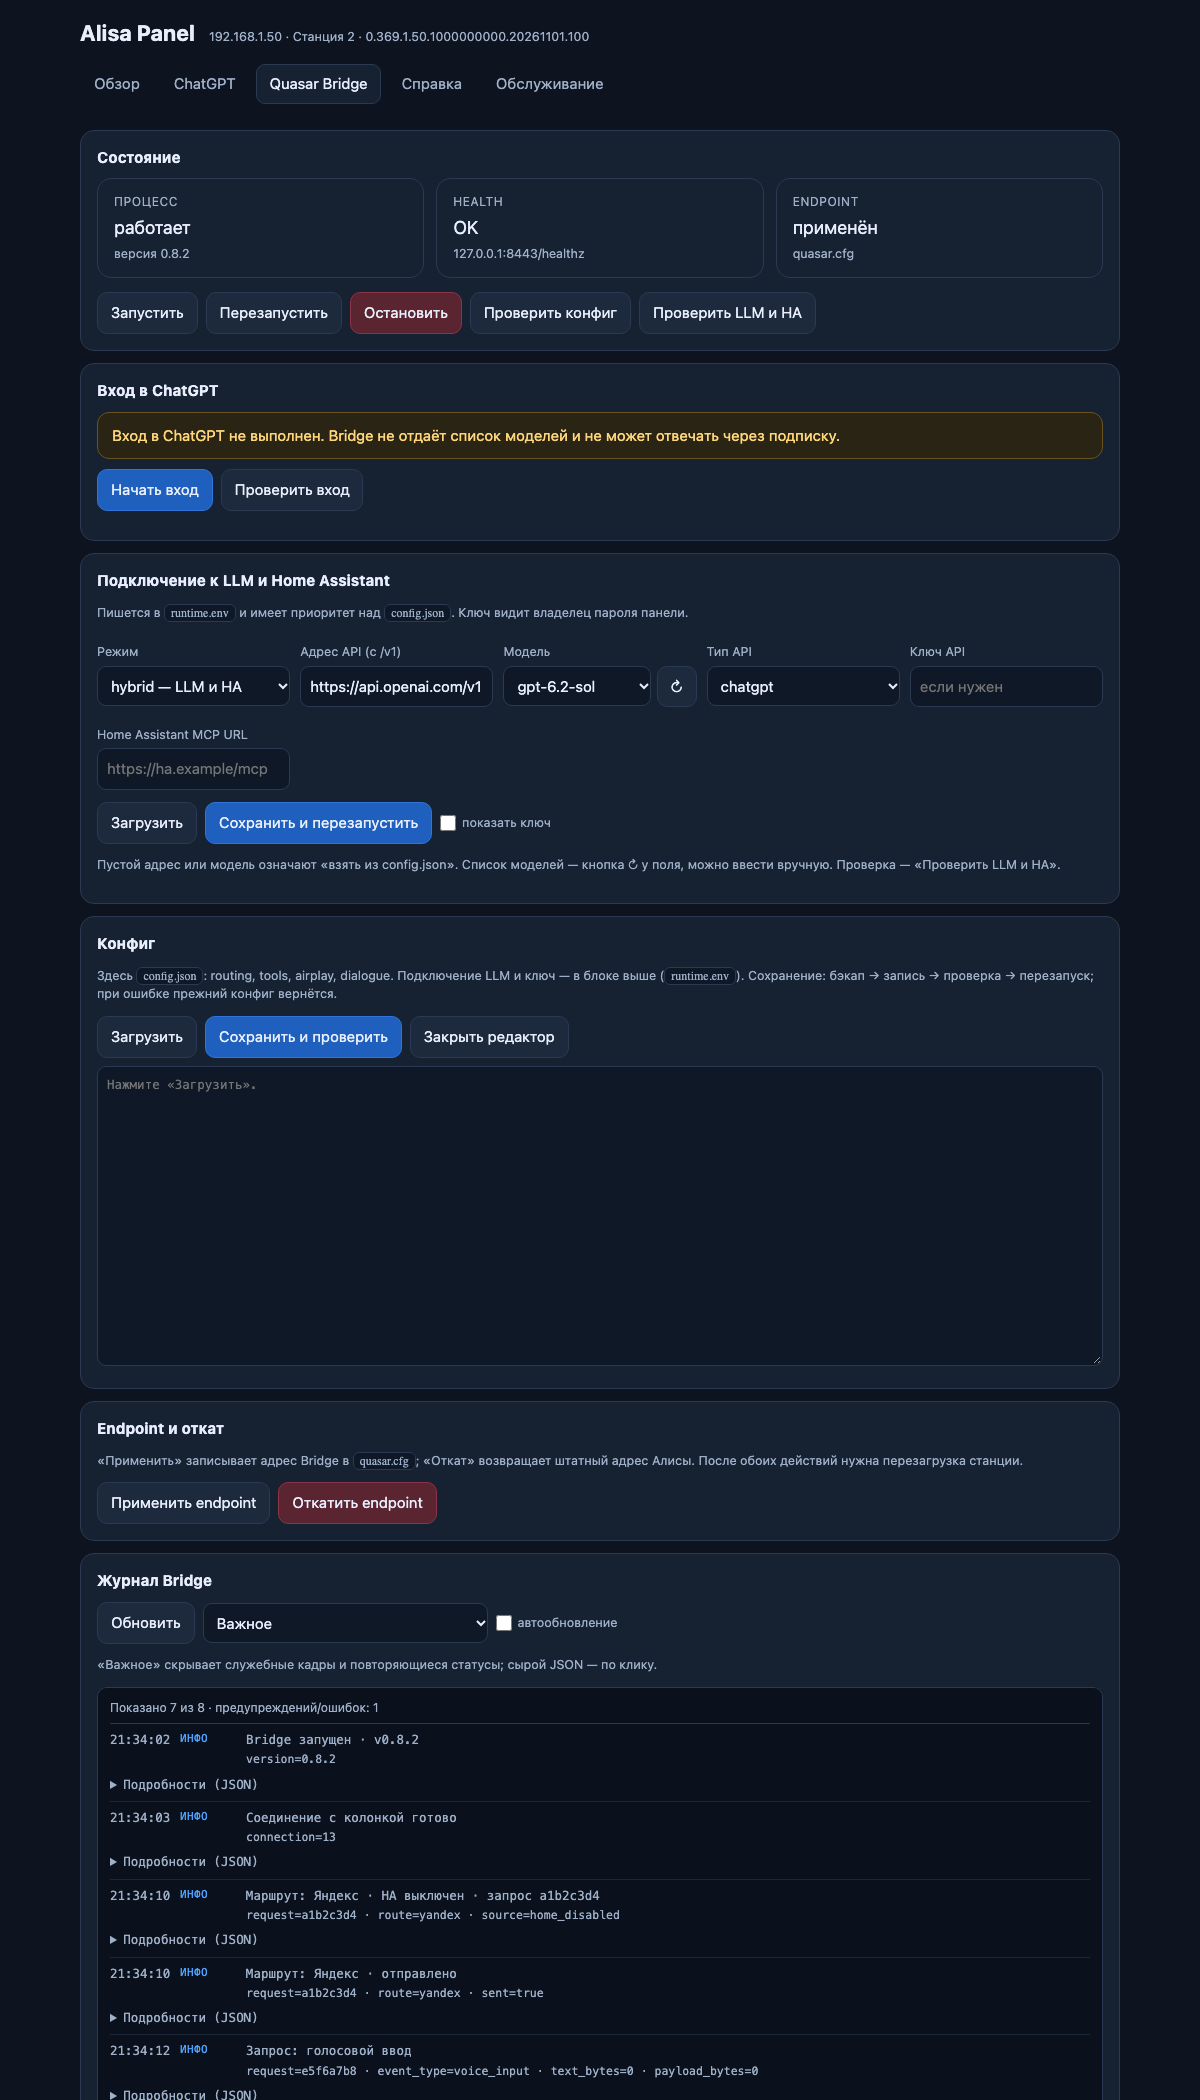
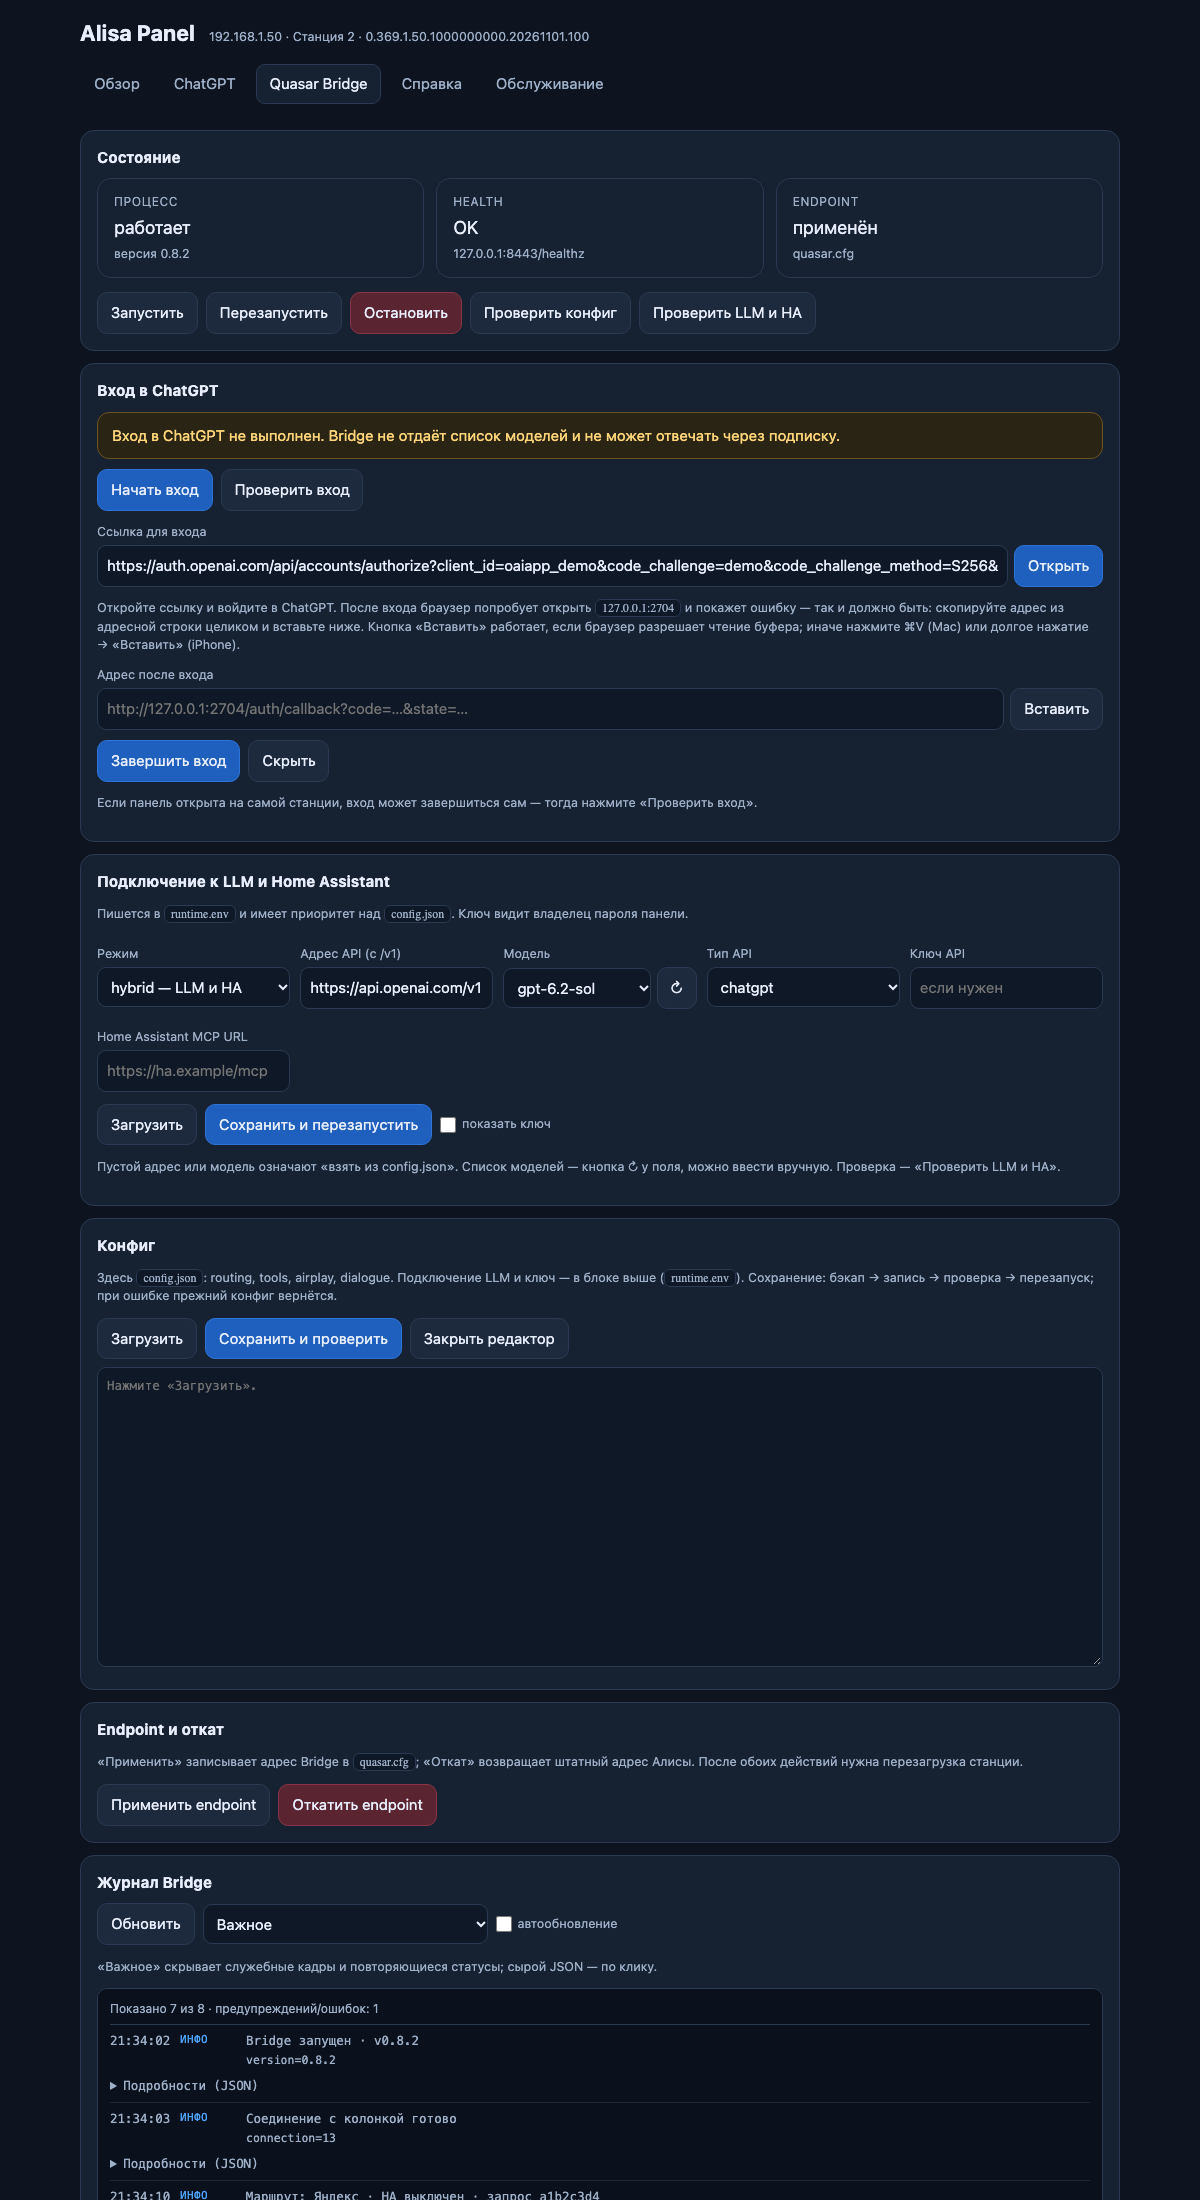
Panel: auto-check ChatGPT session; paste callback button

diff --git a/panel/index.html b/panel/index.html
@@ -214,9 +214,13 @@ kbd{background:#0f1826;border:1px solid var(--line);border-radius:6px;padding:1p
           </div>
           <p class="muted small">Откройте ссылку и войдите в ChatGPT. После входа браузер попробует открыть
           <kbd>127.0.0.1:2704</kbd> и покажет ошибку — так и должно быть: скопируйте адрес из
-          адресной строки целиком и вставьте ниже.</p>
+          адресной строки целиком и вставьте ниже. Кнопка «Вставить» работает, если браузер
+          разрешает чтение буфера; иначе нажмите ⌘V (Mac) или долгое нажатие → «Вставить» (iPhone).</p>
           <label for="chatgptCallback">Адрес после входа</label>
-          <input id="chatgptCallback" placeholder="http://127.0.0.1:2704/auth/callback?code=…&amp;state=…" spellcheck="false">
+          <div class="row" style="flex-wrap:nowrap;gap:6px">
+            <input id="chatgptCallback" placeholder="http://127.0.0.1:2704/auth/callback?code=…&amp;state=…" spellcheck="false" style="flex:1;min-width:120px">
+            <button type="button" class="btn" onclick="pasteChatGPT()" title="Вставить адрес из буфера обмена">Вставить</button>
+          </div>
           <div class="row" style="margin-top:10px">
             <button class="btn primary" onclick="completeChatGPTLogin()">Завершить вход</button>
             <button class="btn" onclick="resetChatGPTLogin()">Скрыть</button>
@@ -479,11 +483,13 @@ function modelValue(){const s=$('bModel');return s&&s.value!=='__custom__'?s.val
 function modelChoice(){const custom=$('bModel').value==='__custom__';$('bModelCustom').classList.toggle('hidden',!custom);if(custom)$('bModelCustom').focus()}
 function fillModels(extra,current){const select=$('bModel'),want=current!==undefined?current:modelValue(),items=[];if(want)items.push({id:want,name:want});items.push(...MODEL_FALLBACK);items.push(...(extra||[]).map(m=>typeof m==='string'?{id:m,name:m}:m));const seen=new Set(),nodes=[];for(const item of items){const id=item&&item.id;if(!id||seen.has(id))continue;seen.add(id);const o=document.createElement('option');o.value=id;o.textContent=(item.name&&item.name!==id)?item.name:id;nodes.push(o)}const custom=document.createElement('option');custom.value='__custom__';custom.textContent='Другая модель…';nodes.push(custom);select.replaceChildren(...nodes);if([...select.options].some(o=>o.value===want))select.value=want;else select.value='__custom__';if(select.value==='__custom__'&&want)$('bModelCustom').value=want;modelChoice()}
 async function loadModels(){try{const d=await getJson('bridge_models');const list=(d.models||[]).map(m=>typeof m==='string'?{id:m,name:m}:m);fillModels(list,modelValue());toast('Моделей: '+list.length)}catch(e){fillModels([],modelValue());toast(e.message||'Список моделей недоступен.',true)}}
-async function refreshChatGPT(){const box=$('chatgptBox');if(!box)return;if(val('bApi')!=='chatgpt'){box.classList.add('hidden');return}box.classList.remove('hidden');try{const d=await getJson('chatgpt_status');setChatGPTState(!!d.signed_in)}catch(e){setChatGPTState(false,e.message)}}
+let CHATGPT_SIGNED=null;
+async function refreshChatGPT(quiet){const box=$('chatgptBox');if(!box)return;if(val('bApi')!=='chatgpt'){box.classList.add('hidden');return}box.classList.remove('hidden');try{const d=await getJson('chatgpt_status');CHATGPT_SIGNED=!!d.signed_in;setChatGPTState(CHATGPT_SIGNED)}catch(e){if(quiet&&CHATGPT_SIGNED!==null){$('chatgptHint').textContent=e.message||'';return}CHATGPT_SIGNED=false;setChatGPTState(false,e.message)}}
 function setChatGPTState(signed,error){$('chatgptOkNote').classList.toggle('hidden',!signed);$('chatgptNeedNote').classList.toggle('hidden',signed);$('chatgptForm').classList.toggle('hidden',signed);$('chatgptHint').textContent=signed?'':(error||'');if(signed){$('chatgptLink').classList.add('hidden');$('chatgptCallback').value=''}}
 async function startChatGPTLogin(){if(BUSY)return;busy(true);try{const d=await post('chatgpt_login_start');$('chatgptUrl').value=d.url||'';$('chatgptOpen').href=d.url||'#';$('chatgptLink').classList.remove('hidden');$('chatgptHint').textContent=d.automatic?'Если панель открыта на самой станции, вход может завершиться сам — тогда нажмите «Проверить вход».':'После входа скопируйте адрес из браузера и вставьте его ниже.';toast('Ссылка готова: откройте её и войдите.')}catch(e){toast(e.message||'Не удалось начать вход.',true)}finally{busy(false)}}
 async function completeChatGPTLogin(){const callback=val('chatgptCallback').trim();if(!/^http:\/\/(127\.0\.0\.1|localhost):\d+\/auth\/callback\?/.test(callback)){toast('Вставьте полный адрес из браузера: http://127.0.0.1:…/auth/callback?…',true);return}if(BUSY)return;busy(true);try{const d=await post('chatgpt_login_complete',{callback});toast(d.message||'Вход выполнен.');$('chatgptCallback').value='';$('chatgptLink').classList.add('hidden');setChatGPTState(true);await loadModels()}catch(e){toast(e.message||'Вход не завершён.',true)}finally{busy(false)}}
 function resetChatGPTLogin(){$('chatgptLink').classList.add('hidden');$('chatgptCallback').value='';$('chatgptHint').textContent=''}
+async function pasteChatGPT(){const input=$('chatgptCallback');input.focus();try{if(navigator.clipboard&&navigator.clipboard.readText){const text=(await navigator.clipboard.readText()).trim();if(text){input.value=text;toast('Адрес вставлен.');return}}throw new Error('clipboard')}catch(e){input.select();toast('Браузер не даёт читать буфер по HTTP. Нажмите ⌘V в поле.',true)}}
 async function logoutChatGPT(){if(!confirm('Выйти из ChatGPT на станции? Пока не войдёте снова, модели подписки будут недоступны.'))return;if(BUSY)return;busy(true);try{const d=await post('chatgpt_logout');toast(d.message||'Выход выполнен.');setChatGPTState(false)}catch(e){toast(e.message||'Не удалось выйти.',true)}finally{busy(false)}}
 function saveGptLook(){act('gpt_settings',{voice:val('voice'),style:val('ledStyle'),scope:val('ledScope'),listen:val('listenLed')})}
 function saveGptNetwork(){const changed=last&&String(last.flags.stun)!==val('stun');if(changed&&!confirm('STUN изменится: GPT будет перезапущен. Сохранить?'))return;act('gpt_settings',{autostart:val('autoGpt'),vpn_autostart:val('autoVpn'),stun:val('stun')})}
@@ -568,6 +574,7 @@ if(location.hash)showTab(location.hash.slice(1));
 function copyText(text){if(navigator.clipboard&&window.isSecureContext)return navigator.clipboard.writeText(text);return new Promise((ok,bad)=>{const ta=document.createElement('textarea');ta.value=text;ta.style.position='fixed';ta.style.top='-1000px';document.body.appendChild(ta);ta.select();let done=false;try{done=document.execCommand('copy')}catch(e){done=false}ta.remove();done?ok():bad(new Error('copy failed'))})}
 function setupCopyButtons(){document.querySelectorAll('#tab-help pre').forEach(pre=>{const wrap=document.createElement('div');wrap.className='prewrap';pre.parentNode.insertBefore(wrap,pre);wrap.appendChild(pre);const b=document.createElement('button');b.type='button';b.className='copy-btn';b.textContent='Копировать';b.onclick=()=>copyText(pre.innerText).then(()=>{b.textContent='Скопировано';setTimeout(()=>{b.textContent='Копировать'},1500)},()=>toast('Не удалось скопировать. Выделите текст вручную.',true));wrap.appendChild(b)})}
 document.querySelectorAll('.speaker-ip').forEach(el=>{const h=location.hostname;if(h&&!/^(localhost|127\.|0\.0\.0\.0)/.test(h))el.textContent=h});
+setInterval(()=>{if(document.hidden||BUSY)return;const b=document.querySelector('nav button[data-tab=\"bridge\"]');if(!b||!b.classList.contains('active'))return;if(val('bApi')!=='chatgpt')return;refreshChatGPT(true)},60000);
 setupCopyButtons();
 init();
 </script>

diff --git a/README-panel.md b/README-panel.md
@@ -71,8 +71,10 @@ init-скрипт `S99zz-alisa-panel`, запускает панель и печ
   подходит и для API-ключа, и для ChatGPT-подписки. Вход ChatGPT хранится в
   `chatgpt-auth.json`. Блок **«Вход в ChatGPT»** показывает статус сессии, начинает
   вход через диагностический API Bridge (loopback `127.0.0.1:2704`), выдаёт ссылку,
-  принимает адрес возврата и выходит из аккаунта — туннель не нужен. Иначе подставляются
-  типовые модели; ввод вручную сохраняется.
+  принимает адрес возврата и выходит из аккаунта — туннель не нужен. Статус сессии
+  обновляется при открытии вкладки и автоматически раз в минуту; адрес возврата можно
+  вставить кнопкой (в secure context) или вручную. Иначе подставляются типовые модели;
+  ввод вручную сохраняется.
 - **Справка**: команды, маршрутизация, «Алиса молчит», «ChatGPT не отвечает»,
   возврат Алисы, безопасность, вход ChatGPT по подписке (OAuth). Основной путь —
   кнопка в панели; для входа из терминала описан SSH-туннель
